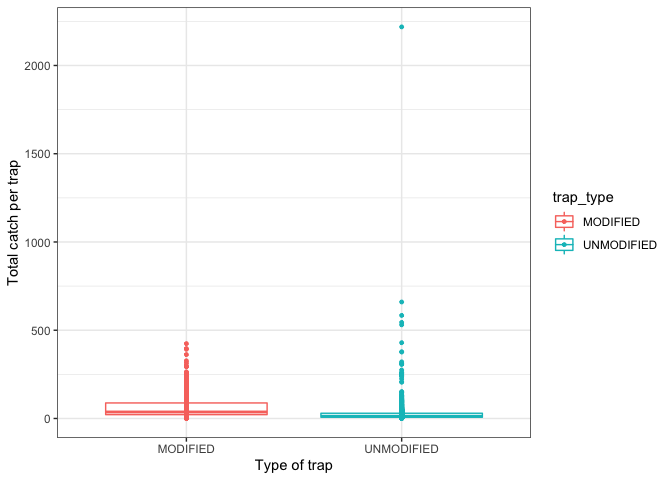
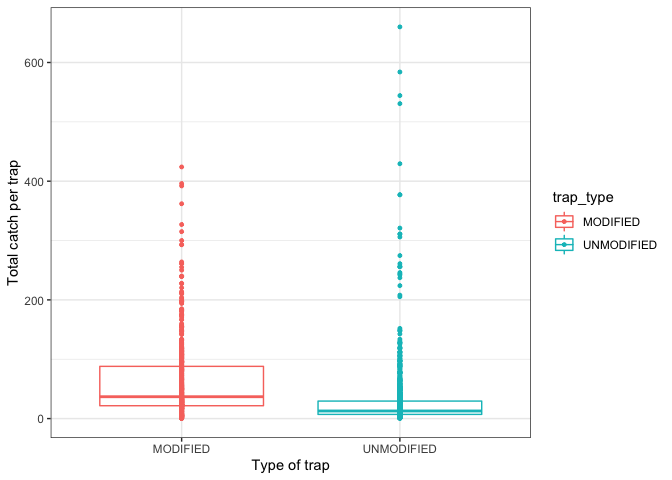
results report info and CUE figure edit

diff --git a/FishLandings/Results_report.md b/FishLandings/Results_report.md
@@ -21,7 +21,7 @@ The output from the QC.md script is the file `Fishlandings-cleaned-clay-June_upd
 
 ### Total catch per trap
 
-**Total catch per trap for modified traps was significantly higher (p < 0.0001)**
+**Total catch per trap for modified traps was significantly higher (p < 0.0001). This result does not seem to be influenced by any one particular fisherman or landing site (see CUE.Rmd for figures).**
 
 ![](https://github.com/emmastrand/Kenya_SamakiSalama/raw/main/FishLandings/scripts/CUE-maturity-length-analysis_files/figure-gfm/unnamed-chunk-4-1.png)
 
@@ -46,3 +46,27 @@ But if you break this down by year and month - 2021 numbers seem too low? Look a
 ![](https://github.com/emmastrand/Kenya_SamakiSalama/raw/main/FishLandings/scripts/CUE-maturity-length-analysis_files/figure-gfm/unnamed-chunk-4-4.png).
 
 ### Grams per trap
+
+**Gramps per trap set was not significantly different (p=0.3201) between modified and unmodified traps. This result also does not appear to be influended by one particular fisherman or landing site (see CUE.Rmd for figures).** 
+
+![](https://github.com/emmastrand/Kenya_SamakiSalama/raw/main/FishLandings/scripts/CUE-maturity-length-analysis_files/figure-gfm/unnamed-chunk-5-1.png)
+
+```
+t.test(grams_per_trap~trap_type, data = modified_trap_df, var.equal = FALSE)
+
+##
+##  Welch Two Sample t-test
+##
+## data:  grams_per_trap by trap_type
+## t = -0.99452, df = 1939.3, p-value = 0.3201
+## alternative hypothesis: true difference in means between group MODIFIED and group UNMODIFIED is not equal to 0
+## 95 percent confidence interval:
+##  -0.06561682  0.02145999
+## sample estimates:
+##   mean in group MODIFIED mean in group UNMODIFIED
+##                0.8929056                0.9149840
+```
+
+Same issue as total catch per trap set - see above 2021 note.
+
+![](https://github.com/emmastrand/Kenya_SamakiSalama/raw/main/FishLandings/scripts/CUE-maturity-length-analysis_files/figure-gfm/unnamed-chunk-5-4.png)

diff --git a/FishLandings/scripts/CUE-maturity-length-analysis.md b/FishLandings/scripts/CUE-maturity-length-analysis.md
@@ -121,7 +121,7 @@ Catch per trap
 
 ``` r
 # basic total catch per trap with no other variables 
-modified_trap_df %>% 
+modified_trap_df %>% filter(catch_per_trap < 1500) %>%
   ggplot(aes(x=trap_type, y=catch_per_trap, color=trap_type)) +
   geom_boxplot(aes(color=trap_type), outlier.size = 0, lwd=0.5) +
     geom_point(aes(fill=trap_type), pch = 21, size=1) +
@@ -129,10 +129,6 @@ modified_trap_df %>%
   ylab("Total catch per trap") + xlab("Type of trap") +
   theme(axis.text.x = element_text(vjust = 1.1)) #Set the text angle
 ```
-
-    ## Warning: Removed 210 rows containing non-finite values (stat_boxplot).
-
-    ## Warning: Removed 210 rows containing missing values (geom_point).
 
 ![](CUE-maturity-length-analysis_files/figure-gfm/unnamed-chunk-4-1.png)<!-- -->
 
@@ -149,7 +145,8 @@ modified_trap_df %>%
 ```
 
     ## Warning: Removed 210 rows containing non-finite values (stat_boxplot).
-    ## Removed 210 rows containing missing values (geom_point).
+
+    ## Warning: Removed 210 rows containing missing values (geom_point).
 
 ![](CUE-maturity-length-analysis_files/figure-gfm/unnamed-chunk-4-2.png)<!-- -->
 
